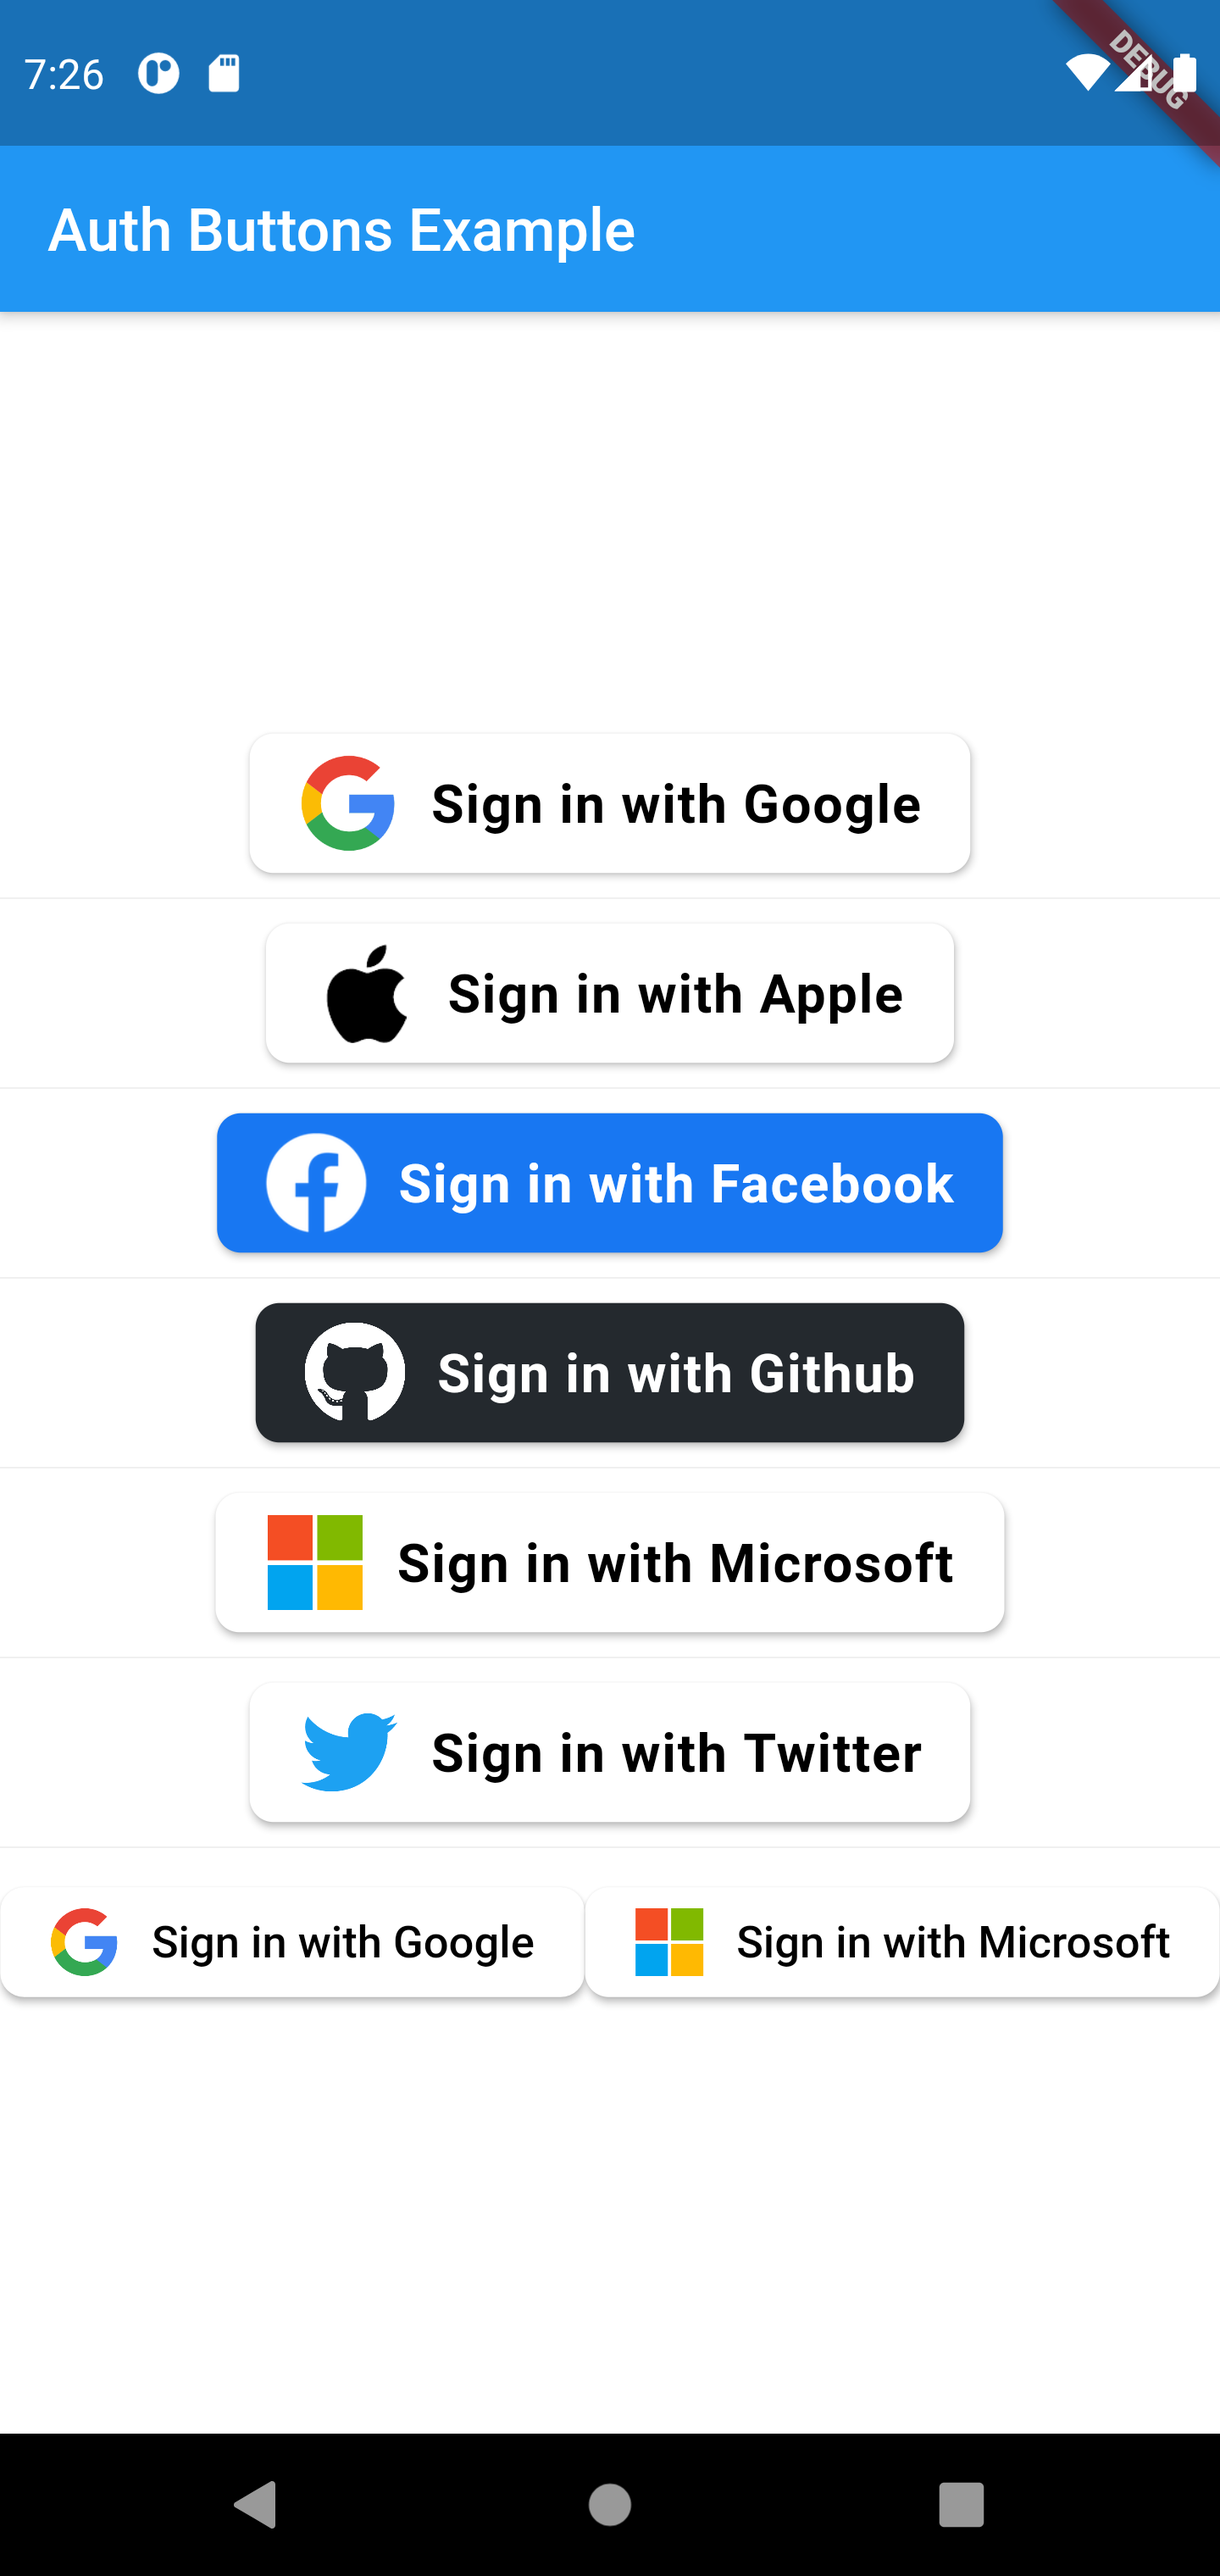
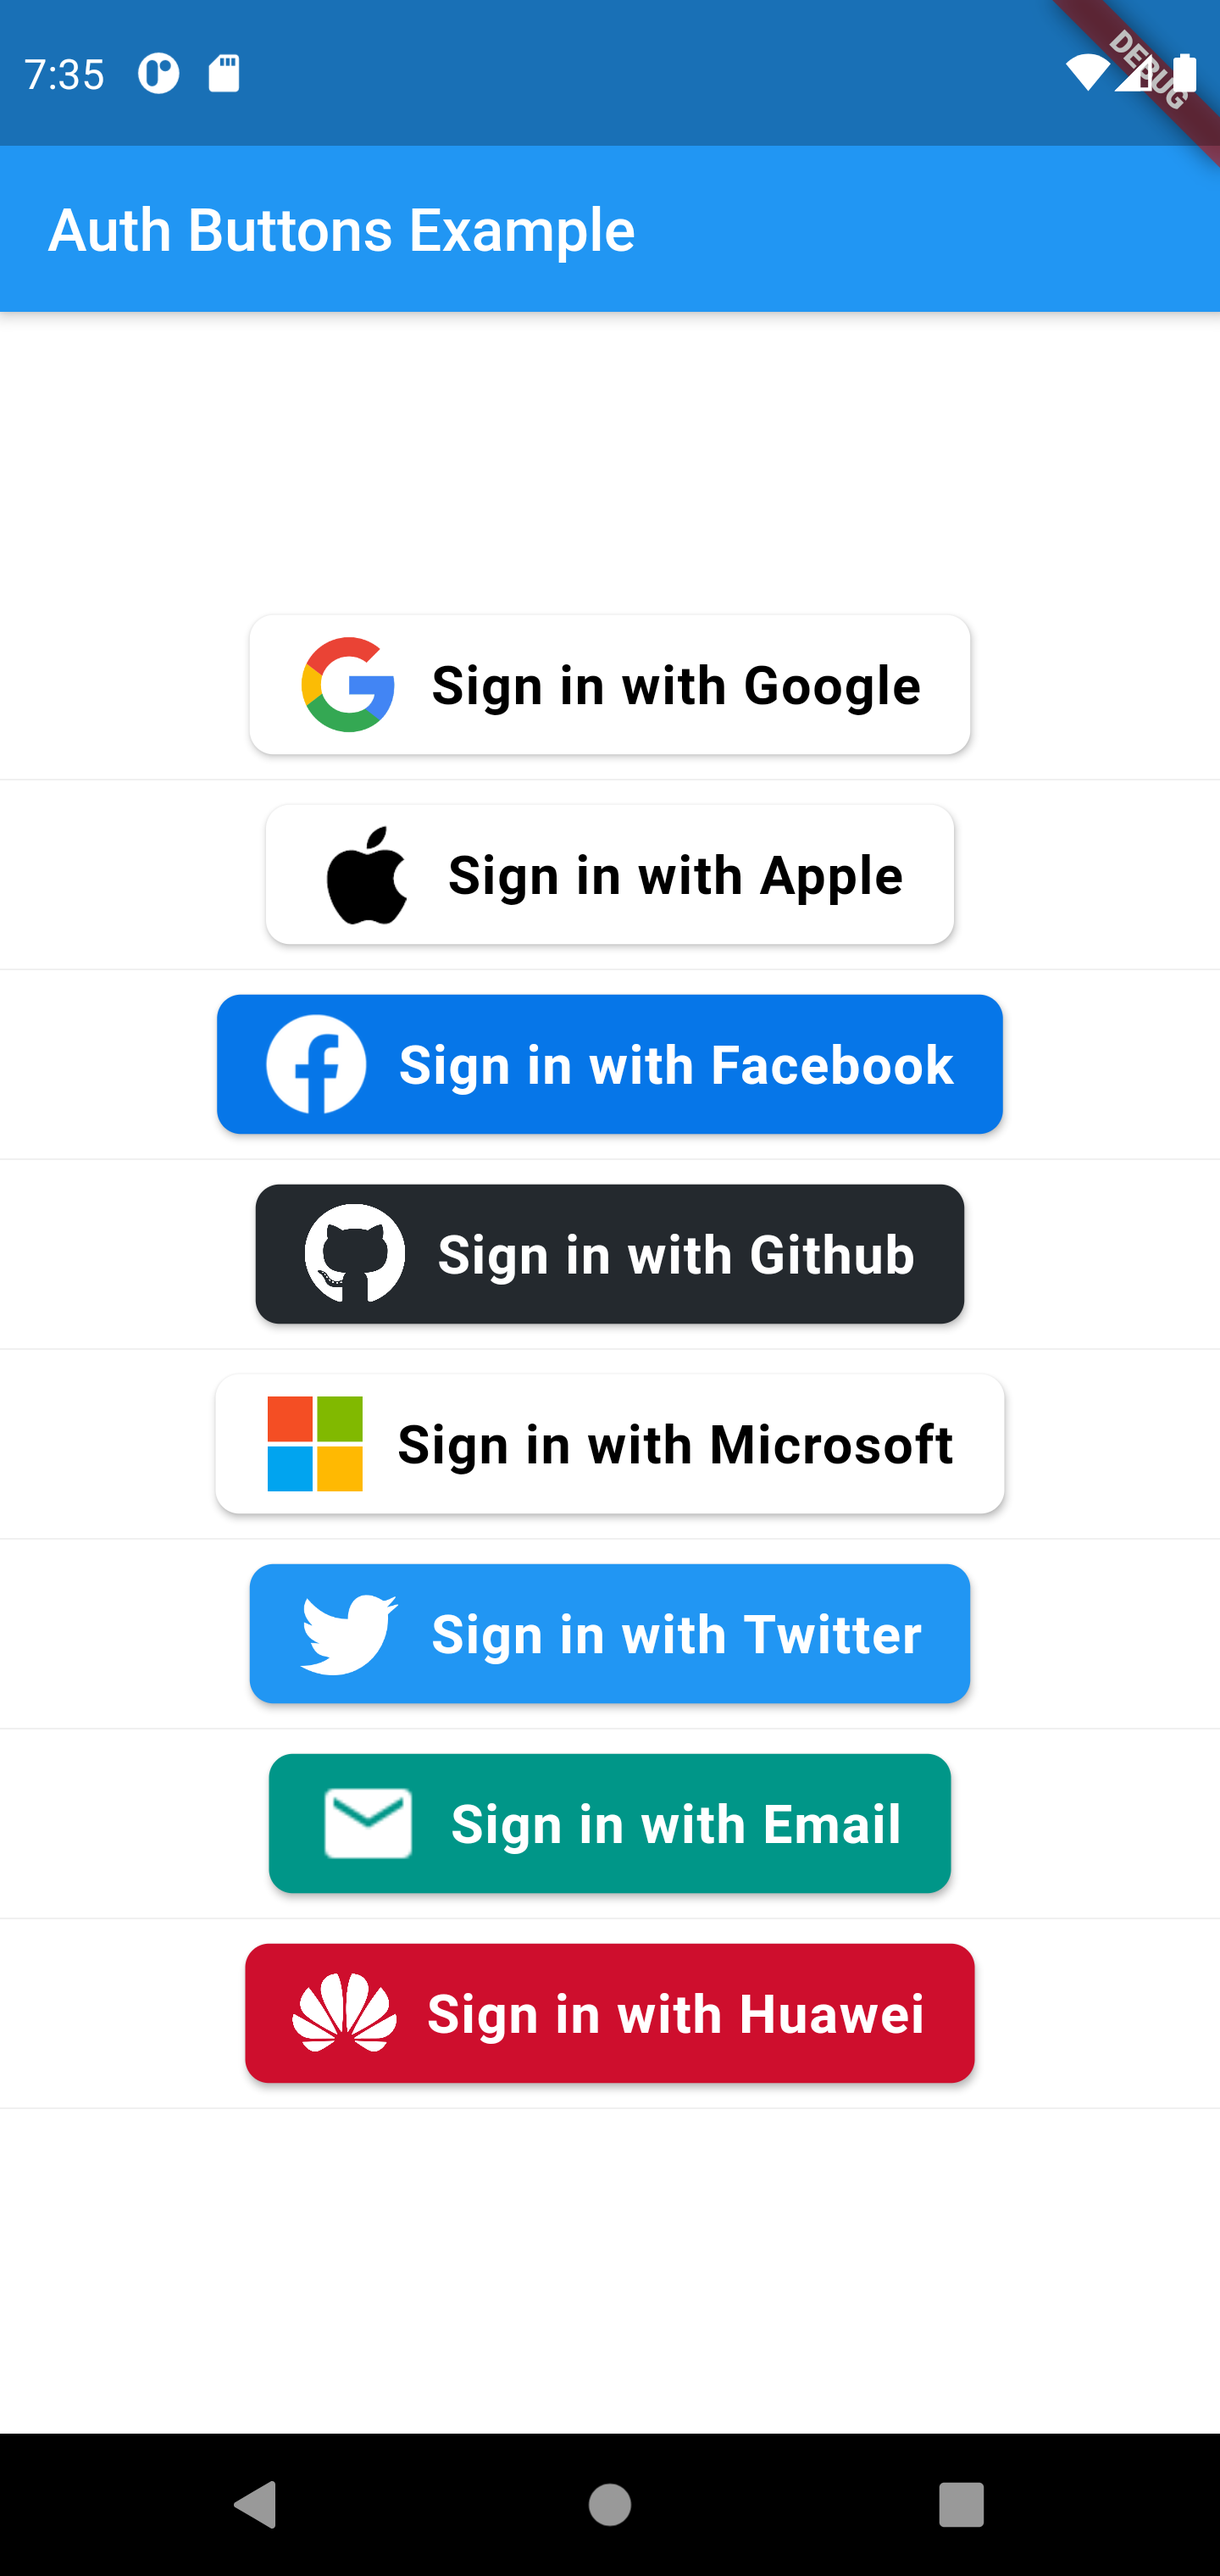
fix textStyle & update readme

Changed region(s): [[0.125, 0.25, 0.9688, 0.8125], [0.0312, 0.7188, 0.0938, 0.7812], [0.7812, 0.3125, 0.8125, 0.3438]]

diff --git a/lib/res/buttons/auth_button.dart b/lib/res/buttons/auth_button.dart
@@ -219,18 +219,20 @@ class AuthButton extends StatelessWidget {
 
   TextStyle getTextStyle() {
     if (style == AuthButtonStyle.secondary)
-      return TextStyle(
-        color: Colors.white,
-        fontSize: 18,
-        fontWeight: FontWeight.bold,
-        letterSpacing: 0.50,
-      );
-    return TextStyle(
-      color: (darkMode ? Colors.white : Colors.black),
-      fontSize: 18,
-      fontWeight: FontWeight.bold,
-      letterSpacing: 0.50,
-    );
+      return textStyle ??
+          TextStyle(
+            color: Colors.white,
+            fontSize: 18,
+            fontWeight: FontWeight.bold,
+            letterSpacing: 0.50,
+          );
+    return textStyle ??
+        TextStyle(
+          color: (darkMode ? Colors.white : Colors.black),
+          fontSize: 18,
+          fontWeight: FontWeight.bold,
+          letterSpacing: 0.50,
+        );
   }
 
   @override

diff --git a/README.md b/README.md
@@ -36,6 +36,7 @@ import 'package:auth_buttons/auth_buttons.dart'
 There are two style you can choose between them:
 1. [Default](#default-style)
 1. [Icon](#icon-style)
+1. [Secondary](#secondary-style)
 
 Note: all api is documented click `Ctrl + Q` to read the docs if you are using `Android Studio`
 or `Intellij Idea` on `Visual Studio Code` just hover over.
@@ -90,6 +91,26 @@ GoogleAuthButton(
 ![dark-icon](./doc/readme_assets/icon-button-dark.png)
 
 
+### Secondary Style
+```dart
+GoogleAuthButton(
+  onPressed: () {},
+  darkMode: false,
+  style: AuthButtonStyle.secondary,
+),
+```
+![light-icon](./doc/readme_assets/secondary-button-light.png)
+
+```dart
+GoogleAuthButton(
+  onPressed: () {},
+  darkMode: true,
+  style: AuthButtonStyle.icon,
+),
+```
+![dark-icon](./doc/readme_assets/secondary-button-dark.png)
+
+
 Do same think with the other buttons, when you want customize any button 
 you can do it just passing a property which you want.
 
@@ -104,15 +125,22 @@ GoogleAuthButton(
   borderRadius: 8.0,
   padding: EdgeInsets.all(8.0),
   text: 'Sign in with Google',
-  textStyle: TextStyle(),
+  textStyle: TextStyle(
+    color: Colors.black,
+    fontSize: 18,
+    fontWeight: FontWeight.bold,
+    letterSpacing: 0.50,
+  ),
   darkMode: false,
   borderColor: Colors.red,
-  borderWidth: 1.0,
-  style: AuthButtonStyle.icon,
+  borderWidth: 2.0,
+  style: AuthButtonStyle.secondary,
   width: 280.0,
   height: 50.0,
   iconSize: 35.0,
-  separator: 15.0,
+  separator: 10.0,
+  rtl: false,
+  iconBackground: Colors.transparent,
 ),
 ```
 
